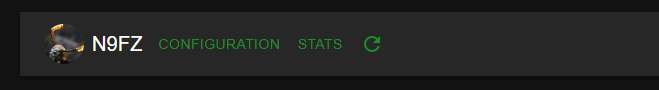
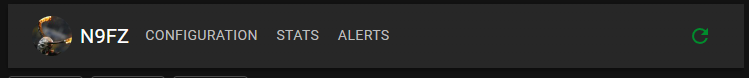
Update User Guide and screenshots. Add Alerts guide.

diff --git a/docs/USER_GUIDE.md b/docs/USER_GUIDE.md
@@ -3,8 +3,10 @@
 ## Main Menu
 
 At the very top of the application is the main menu. Your callsign and Gravatar
-are displayed here. There are three buttons, CONFIGURATION, STATS, and a Refresh
-button. Configuration is described below. The Refresh button is like hitting F5
+are displayed here. There are three buttons, CONFIGURATION, STATS, ALERTS, and 
+a Refresh button. 
+
+Configuration is described below. The Refresh button is like hitting F5
 on your browser. It doesn't necessarily refresh the spots from POTA.
 
 ![Main Menu](img/app_bar.png)
@@ -14,8 +16,12 @@ The STATS menu has a few sub-menu items for loading data from various sources.
 - PARK Stats: downloaded from pota website. hunter_parks.csv
 - OP Stats: import of a adif log containing hunts of activator callsigns
 - LOC Stats: download from pota website. program/location data
+- HAMALERT: gives a list of unhunted parks in a location (state)
 
 These are described in detail in the [Stats Guide](STATS.md). But they will have a progress indicator that will disappear when they are done processing as some of these operations take a long time.
+
+The ALERTS menu allows you to configure alerts that will popup on the main menu
+bar to notify you of parks you may want to hunt. It's described in [Alerts Guide](ALERTS.md)
 
 ## QSO Entry
 
@@ -141,9 +147,7 @@ When a row is clicked in the spot viewer, the top-right side section displays a 
 The reference string and title are displayed first. The title is also a link to
 the website for either the Park or Summit. The displayed reference data is a
 different between parks and summits but either are self explanatory. The
-text at the bottom shows the number of QSOs you've had with that reference. It
-will be red if you have 0 QSOs with activators at that reference, indicating 
-its a new-to-you park or summit.
+text at the bottom shows the number of QSOs you've had with that reference.
 
 ## Configuration
 
@@ -160,6 +164,7 @@ the options described here. When clicked this modal dialog will be displayed:
 - Display Imperial Units: feet or meters
 - Dark mode: toggle between light and dark mode
 - Show Spot Age: if selected shows spot time as an age: '2 MIN' vs the '12:34'
+- Highlight New: if a park is new, pulse the color of the spot row
 
 ### CAT settings 
 First is a drop down selection of CAT interface types. Currently those

diff --git a/docs/ALERTS.md b/docs/ALERTS.md
@@ -1,0 +1,36 @@
+# Alerts Guide
+
+The Alerts system in HunterLog is intended to show a popup for parks for a 
+given location even if you have filtered out the main spots row. This is helpful
+if you want to work a spot on a mode that you currently aren't looing at on the
+spot viewer. *I'm usually looking at CW spots but I want do want to know when a new 
+park in GA is on SSB*
+
+The configuration is pretty straight forward. On the Alerts screen, click 
+`Add Alert Filter` button and click on the cells to edit the values. The location
+is the most important piece of information to set.
+
+![Alert Config](img/alerts_cfg.png)
+
+In this screenshot, I have an alert for New Only (a reference I haven't hunted)
+in US-GA (a POTA location). I've given it the name MyGa, which will be displayed
+on the popup. I also want to exclude FT8 and FT4.
+
+If a park is spotted that meets the alert criteria a popup appears in the main
+menu area that looks like this:
+
+
+![Alert Demo](img/alert_demo.png)
+
+There are a few controls to note on this alert. First, if there are multiple alerts
+that are displayed, the dots and arrows along the bottom allow you to click forward
+and backwards to see them all. Secondly, the `X` button and `Snooze` button allow you 
+to remove/hide the alert. 
+
+The `X` button is a temporary dismissal, the alert will appear again at the next spot
+refresh (1 minute). If you wish to quickly close ALL alerts you can hold Shift and 
+click the X button.
+
+The `Snooze` button will allow you to snooze that particular alert for 10 minutes.
+In the above example, all alerts from 'AnotherAlert' (which is setup for US-FL)
+would be hidden for 10 minutes.

diff --git a/docs/STATS.md b/docs/STATS.md
@@ -107,3 +107,24 @@ locally. No hunter data is in this file but the meta-data about locations and
 prefixes is used to tabulate the parks hunted within a location.
 
 This is the easiest data to import and should take very little time.
+
+
+## HamAlert Helper
+
+The HamAlert Helper allows you to generate a list of unhunted POTA parks within
+a given POTA location. This is useful for creating triggers for [HamAlert](https://hamalert.org).
+
+> [!IMPORTANT]  
+> To use the HamAlert Helper, you *must* click the `LOC STATS` menu item first. If
+> you don't there will be no Locations in the drop down list.
+
+The main dropdown allows you to type in the location you care about. I'm trying
+to get all the US-GA parks hunted, so I will type in US-GA and select it from 
+the menu. It will look like this:
+
+![Exporting hunter stats](img/hamalert.png)
+
+I can then copy and paste those values into a trigger in HamAlert website.
+*The list is automatically copied to your clipboard when you select a location.*
+This will send notifications directly to my phone when any of these parks are on 
+the air.
